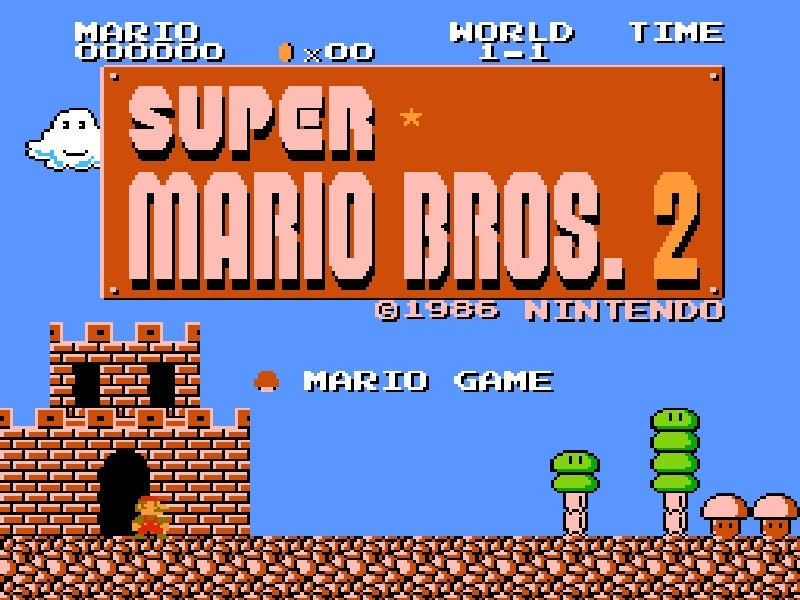
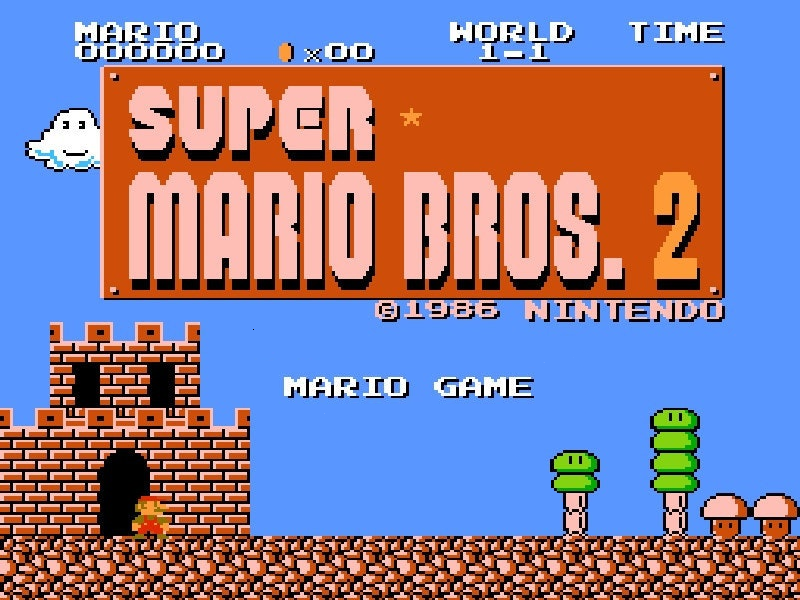
add

Changed region(s): [[0.3125, 0.6, 0.6875, 0.69]]

diff --git a/src/App.cpp b/src/App.cpp
@@ -16,10 +16,27 @@ void App::Title() {
     m_renderer = std::make_shared<Util::Renderer>();
     m_renderer->AddChild(m_Background);
 
+    m_TitleMashroom = std::make_shared<AnimationObject>(2,RESOURCE_DIR "/image/character/TitleMashroom/mushroom");
+    m_TitleMashroom->SetPosition({-220,-103});
+    m_TitleMashroom->SetSize({0.15,0.15});
+    m_TitleMashroom->SetZIndex(51);
+    m_renderer->AddChild(m_TitleMashroom);
+
+    m_TitleWord = std::make_shared<AnimationObject>(2,RESOURCE_DIR "/image/character/TitleWord/EnterContinue");
+    m_TitleWord->SetPosition({0,-200});
+    m_TitleWord->SetZIndex(52);
+    m_TitleWord->SetSize({4.5,3});
+    m_renderer->AddChild(m_TitleWord);
+
     m_CurrentState = State::TitleUpdate;
 }
 void App::TitleUpgrade() {
     LOG_TRACE("TitleUpgrade");
+    if (Util::Input::IsKeyPressed(Util::Keycode::KP_ENTER)) {
+        m_renderer->RemoveChild(m_Background);
+        m_renderer->AddChild(m_TitleMashroom);
+        m_CurrentState = State::START;
+    }
     m_renderer->Update();
     if (Util::Input::IsKeyUp(Util::Keycode::ESCAPE) ||
         Util::Input::IfExit()) {
@@ -29,8 +46,14 @@ void App::TitleUpgrade() {
 
 void App::Start() {
     LOG_TRACE("Start");
-
     m_renderer = std::make_shared<Util::Renderer>();
+    m_MariO = std::make_shared<m_mariO> ();
+    m_MariO->SetPosition({0,0});
+    m_MariO->SetCurrentState(Action::Stand);
+    m_MariO->SetZIndex(50);
+    m_MariO->SetSize({1.6,1.2});
+
+    m_renderer->AddChild(m_MariO);
     m_CurrentState = State::UPDATE;
 }
 

diff --git a/src/M_mariO.cpp b/src/M_mariO.cpp
@@ -1,0 +1,36 @@
+//
+// Created by benson on 2025/3/10.
+//
+#include "m_mariO.hpp"
+
+        void m_mariO::SetCurrentState(Action state){
+            CurrentState = state;
+            m_Drawable = GetCurrentAnimation();
+        };
+
+        Action m_mariO::GetCurrentState(){
+            return CurrentState;
+        };
+
+        std::shared_ptr<Core::Drawable> GetCurrentAnimation(){
+            switch(this->GetCurrentState()){
+                case(Action::Run):
+                    return Run;
+                break;
+                case (Action::Jump):
+                    return Jump;
+                break;
+                case(Action::BigToSmall):
+                    return BigToSmall;
+                break;
+                case(Action::Stop):
+                    return Stop;
+                break;
+                case(Action::Swim):
+                    return Swim;
+                break;
+                case(Action::Stand):
+                    return Stand;
+                break;
+            }
+

diff --git a/include/m_mariO.hpp b/include/m_mariO.hpp
@@ -2,10 +2,10 @@
 // Created by Benson on 2025/3/9.
 //
 
-#ifndef M_MARIO_HPP
-#define M_MARIO_HPP
+#ifndef m_MARIO_HPP
+#define m_MARIO_HPP
 #include "AnimationObject.hpp"
-enum State{
+enum Action{
     Run,
     Jump,
     BigToSmall,
@@ -13,8 +13,14 @@ enum State{
     Swim,
     Stand
  };
-class M_mariO : public AnimationObject {
+class m_mariO : public AnimationObject {
       public:
+
+          void SetCurrentState(Action state);
+
+          Action GetCurrentState();
+
+          std::shared_ptr<Core::Drawable> GetCurrentAnimation();
 
       private:
         std::shared_ptr<Util::Animation> Run;
@@ -25,8 +31,8 @@ class M_mariO : public AnimationObject {
         std::shared_ptr<Util::Image> Stand;
         std::shared_ptr<Util::Image> down;
 
-        State state = State::Stand;
+        Action CurrentState = Action::Stand;
 
 
 };
-#endif //M_MARIO_HPP
+#endif //m_MARIO_HPP

diff --git a/include/AnimationObject.hpp b/include/AnimationObject.hpp
@@ -15,7 +15,7 @@ public:
         for(size_t i = 1;i <= size;i++) {
             AddImagePath(Path + std::to_string(i) + ".png");
         }
-        Animations.push_back(std::make_shared<Util::Animation>(AnimationPaths,true,50,true,20));
+        m_Drawable = std::make_shared<Util::Animation>(AnimationPaths,true,100,true,20);
     }
 
     void SetPosition(const glm::vec2 &position) {m_Transform.translation = position;}
@@ -28,7 +28,7 @@ public:
 
 
 private:
-    std::vector<std::shared_ptr<Util::Animation>> Animations;
+    std::shared_ptr<Util::Animation> Animations;
     std::vector<std::string> AnimationPaths;
 };
 #endif //ANIMATIONOBJECT_HPP

diff --git a/include/App.hpp b/include/App.hpp
@@ -5,6 +5,7 @@
 #include "StillObject.hpp"
 #include "AnimationObject.hpp"
 #include "Util/Renderer.hpp"
+#include "m_mariO.hpp"
 
 class App {
 public:
@@ -32,8 +33,12 @@ private:
     void ValidTask();
 
 private:
+    std::shared_ptr<AnimationObject> m_TitleMashroom;
+    std::shared_ptr<AnimationObject> m_TitleWord;
+
     std::shared_ptr<StillCharacter> m_Background;
 
+    std::shared_ptr<m_mariO> m_MariO;
     std::shared_ptr <Util::Renderer> m_renderer;
 
     State m_CurrentState = State::Title;

diff --git a/src/AppStart.cpp b/src/AppStart.cpp
@@ -1,0 +1,9 @@
+//
+// Created by benson on 2025/3/10.
+//
+#include "App.hpp"
+class AppStart : public App {
+    public:
+
+    private:
+};

diff --git a/src/AppEnd.cpp b/src/AppEnd.cpp
@@ -1,0 +1,11 @@
+//
+// Created by benson on 2025/3/10.
+//
+#include "App.hpp"
+
+class AppEnd : public App {
+  public:
+
+  private:
+
+};

diff --git a/src/AppTitleUpdate.cpp b/src/AppTitleUpdate.cpp
@@ -1,0 +1,7 @@
+//
+// Created by benson on 2025/3/10.
+//
+#include "App.hpp"
+class AppTitleUpdate : public App {
+
+};

diff --git a/src/AppUpdate.cpp b/src/AppUpdate.cpp
@@ -1,0 +1,8 @@
+//
+// Created by benson on 2025/3/10.
+//
+
+#include "App.hpp"
+class AppUpdate : public App {
+
+};

diff --git a/src/AppTitle.cpp b/src/AppTitle.cpp
@@ -1,0 +1,7 @@
+//
+// Created by benson on 2025/3/10.
+//
+#include "App.hpp"
+class AppTitle : public App {
+
+};
